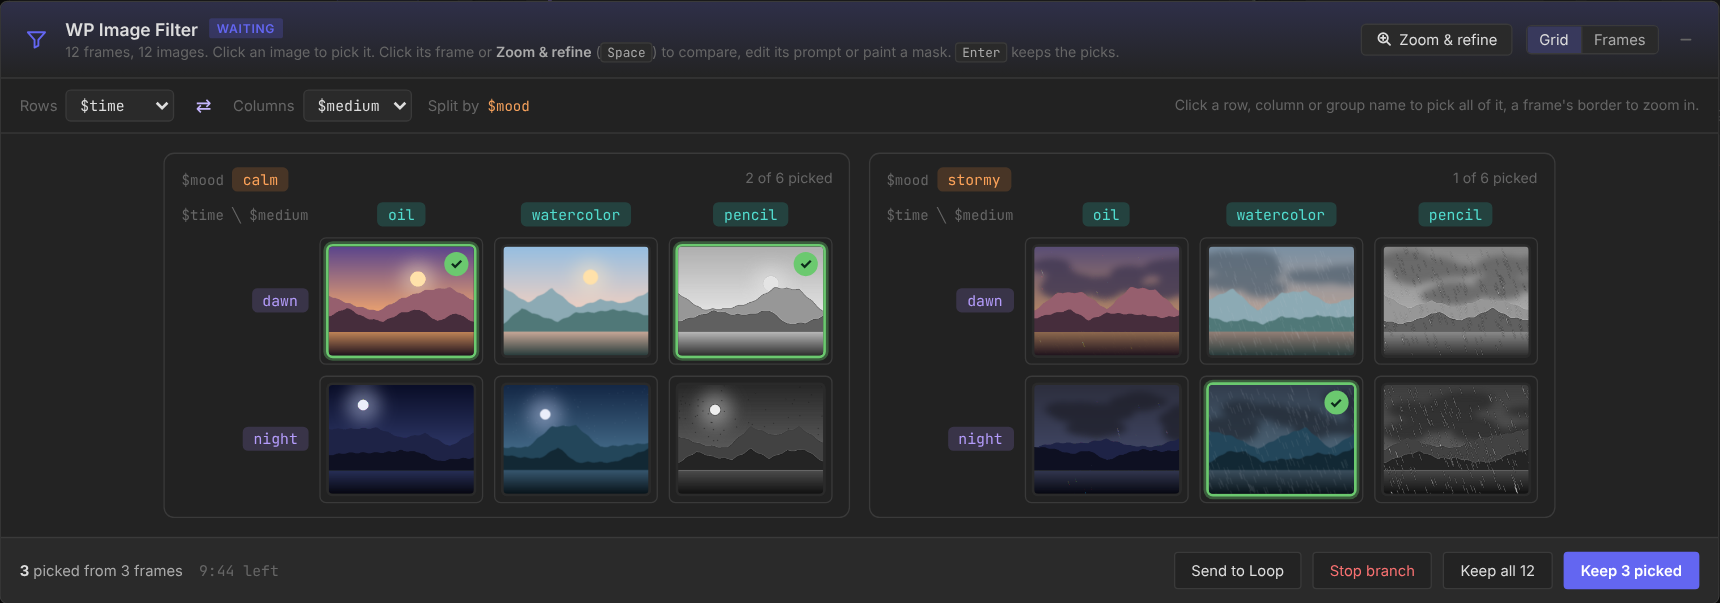
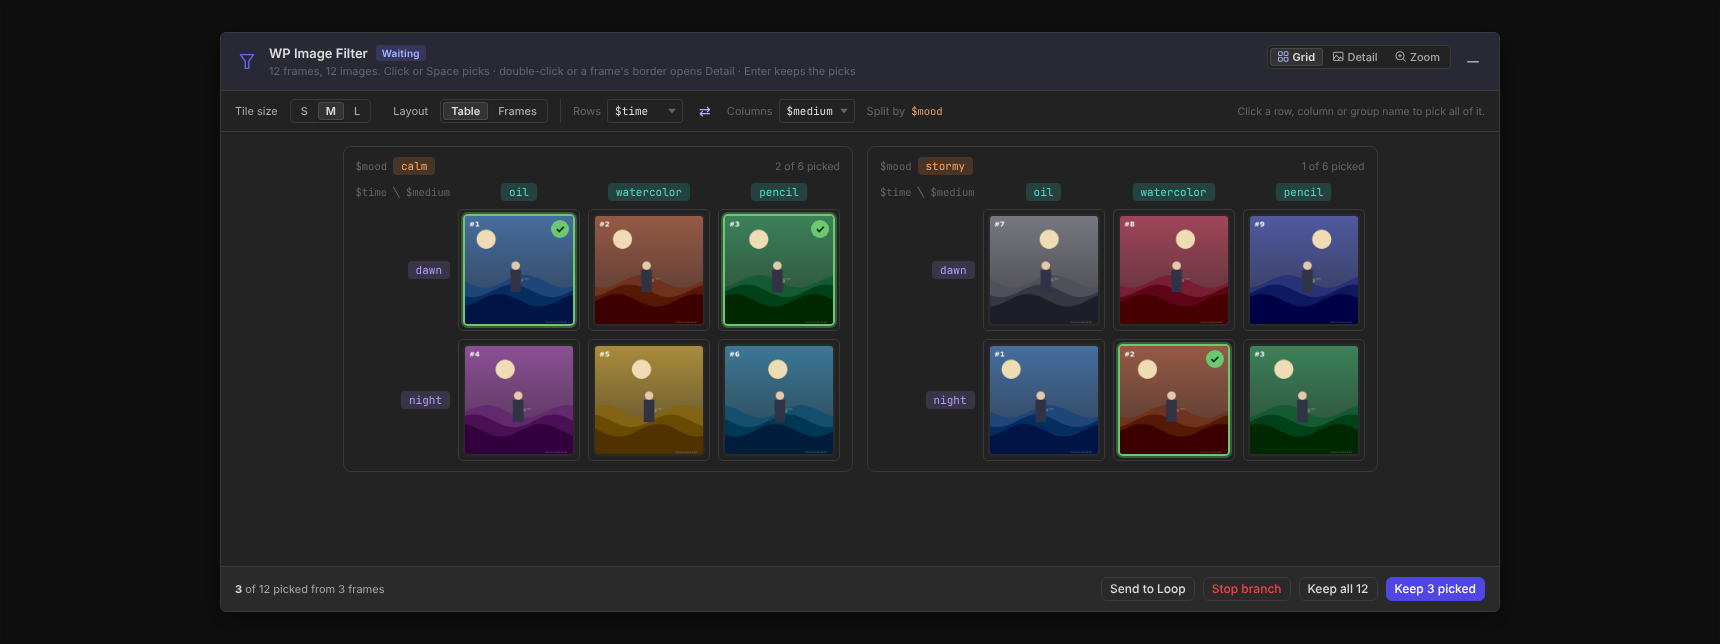
docs(image-filter): the three picker modes in the docs, help and release notes

diff --git a/src/manager/docs/pages/nodes/wp-image-filter.vue b/src/manager/docs/pages/nodes/wp-image-filter.vue
@@ -21,16 +21,15 @@ const ports = [
   { term: "picks (out)", desc: "What was kept, as frame:image (1-based), for example 1:2, 3:1." },
 ];
 
+const modes = [
+  { term: "Grid (G)", desc: "Pick fast. Click an image or press Space over it; Ctrl+A picks everything and a frame's all button picks the frame. Tile size S, M, L or Fit (F, as big as the picker allows). Double-click an image or click its frame to open it in Detail." },
+  { term: "Detail (D)", desc: "One image next to its size, seed, values, prompt, negative and mask. Only what is wired shows. Pick / Picked (P) picks it, ←/→ step, the strip under it jumps to any image. C compares two images with a slider, M paints a mask." },
+  { term: "Zoom (Z)", desc: "Only the picture, at Fit, 100%, 200% or any level between (− / +, keys 0 1 2). Scroll zooms toward the mouse, drag moves, double-click goes to 100% at that spot. ←/→ keep the zoom and the spot on the next image." },
+];
+
 const keys = [
-  { term: "Click", desc: "Pick or unpick an image. A frame's all button picks the whole frame; Ctrl+A picks everything." },
-  { term: "Frame", desc: "Click the frame around an image (its border or label) to zoom in, where you can compare, edit the prompt and paint a mask. The Zoom & refine button in the header does the same." },
-  { term: "Space", desc: "Zoom the image under the mouse, or leave the zoom (same as Zoom & refine). In the zoom, ←/→ move and ↑ picks. The picker remembers: leave it zoomed and the next one opens zoomed." },
-  { term: "F", desc: "Fit: make the images as big as the picker allows, so a few images fill the screen. Same as the Fit button; remembered for next time." },
-  { term: "I", desc: "In the zoom: Details. Lists the frame's variable values (Copy copies them) and seed, shows the frame's other images with Pick whole frame, and marks each value in the positive prompt (click it to edit). Remembered for next time." },
-  { term: "C", desc: "In the zoom: pin this image, then step to another to compare the two with a slider. C again stops." },
-  { term: "M", desc: "In the zoom: paint a mask on this image (brush, eraser, size, invert, clear)." },
   { term: "Enter", desc: "Keep the picks and let the run go on." },
-  { term: "Escape", desc: "Tuck the picker away. A waiting pill at the bottom of the screen opens it again, picks intact." },
+  { term: "Escape", desc: "Step back a mode: Zoom to Detail, Detail to Grid. From Grid it tucks the picker away; a waiting pill at the bottom of the screen opens it again, picks intact." },
 ];
 
 const settings = [
@@ -91,10 +90,21 @@ const settings = [
     </DocSection>
 
     <DocSection title="The picker">
+      <p>
+        The picker has three modes, switched at the top or with <b>G</b>, <b>D</b> and <b>Z</b>.
+        The window keeps its size in every mode, the pick count and the Keep buttons stay in the
+        footer, and the picker opens in the mode you left it in.
+      </p>
       <DocImage
         src="images/docs/wp-image-filter-picker.png"
-        ratio="1720 / 1088"
-        caption="The picker for a 12-frame sweep with Fit on: each frame is labelled with its number and the options it pinned. Three images are picked."
+        ratio="1720 / 860"
+        caption="Grid: six loop frames of two images each, at tile size M. Three images are picked."
+      />
+      <DocKeyList :items="modes" />
+      <DocImage
+        src="images/docs/wp-image-filter-zoom.png"
+        ratio="1720 / 860"
+        caption="Zoom on the hand in frame #5 at 164%. Step with the arrow keys and the next image opens on the same spot."
       />
       <DocKeyList :items="keys" />
       <p>
@@ -113,15 +123,15 @@ const settings = [
       <p>
         With a <b>Context Loop</b>, each frame is labelled with its number and the options its
         sweep pinned (for example <code>#3 · red · pencil</code>). Hover a label to see the
-        frame's seed and prompt. A sweep of two or more wildcards opens as a <b>grid</b>. The bar above it picks
+        frame's seed and prompt. A sweep of two or more wildcards opens in Grid as a <b>table</b>. The bar above it picks
         which wildcard goes on <b>Rows</b> and which on <b>Columns</b> (⇄ swaps them); any others
         <b>Split by</b>, one small grid per value. Click a row, column or group name to pick all of
-        it. <b>Frames</b> in the header switches back to the list.
+        it. <b>Layout › Frames</b> switches back to the list.
       </p>
       <DocImage
         src="images/docs/wp-image-filter-grid.png"
-        ratio="1720 / 676"
-        caption="A sweep of $time × $medium × $mood as a grid: rows and columns, split by $mood."
+        ratio="1720 / 644"
+        caption="A sweep of $time × $medium × $mood as a table: rows and columns, split by $mood."
       />
       <p>
         <b>Send to Loop</b> writes your picks back to the loop: the picked frames' seeds are
@@ -132,7 +142,7 @@ const settings = [
 
     <DocSection title="Refine before it goes on">
       <p>
-        In the zoom, the <b>Refine</b> panel edits the frame's positive and negative prompt and
+        In <b>Detail</b>, the side panel edits the frame's positive and negative prompt and
         paints a mask for the upscaler. Edits travel with the picks; tiles show ✎ for an edited
         prompt and ◐ for a painted mask.
       </p>
@@ -147,8 +157,8 @@ const settings = [
       </ul>
       <DocImage
         src="images/docs/wp-image-filter-refine.png"
-        ratio="1720 / 910"
-        caption="Zoom & refine on frame 5 with Details open: the frame's values, its prompt with each value marked, the negative, and Paint for a mask."
+        ratio="1720 / 860"
+        caption="Detail on frame 3: its size, seed and values, the prompt with each value marked, the negative, and Paint for a mask. The strip below jumps to any image."
       />
       <figure class="wp-doc-figure">
         <img :src="picksDiagram" alt="How the picks carry over: images, latents, masks, conditioning and prompt text of picked frames go on; an edited prompt is re-encoded and a painted mask goes to the masks output." loading="lazy">

diff --git a/src/manager/docs/figures.ts b/src/manager/docs/figures.ts
@@ -56,11 +56,13 @@ export const FIGURE_TEXT: Record<string, string> = {
   "images/docs/wp-debug-two.png":
     "Screenshot of two Context → Debug pairs stacked. The top WP Context holds Starter subject and Pose; its Debug lists $subject dog (canine) and $pose standing. The bottom WP Context holds Hair and Weather; its Debug shows a red '1 negative' badge and lists $hair black hair (cool) and $weather light rain with the negative '- umbrella' under it (tag wet). It shows that Debug lists each variable's value, tags and source, and the negative words a pick carries.",
   "images/docs/wp-image-filter-picker.png":
-    "Screenshot of the WP Image Filter picker, marked Waiting, in Frames view with Fit on: 12 frames, 12 images of a painted mountain lake, each labelled with its number and sweep options, from #1 dawn · oil · calm to #12 night · pencil · stormy. Frames #1, #5 and #10 are picked (green border and tick). The footer reads 3 picked from 3 frames with a countdown, and the buttons Send to Loop, Stop branch, Keep all 12 and Keep 3 picked.",
+    "Screenshot of the WP Image Filter picker, marked Waiting, in Grid mode (the Grid / Detail / Zoom switch is top right) with Tile size M: 6 frames of 2 images each, every frame a card labelled #1 to #6 with an all button. Three images are picked (green border and tick). The footer reads 3 of 12 picked from 3 frames, with Stop branch, Keep all 12 and Keep 3 picked.",
   "images/docs/wp-image-filter-grid.png":
-    "Screenshot of the WP Image Filter picker in Grid view for a sweep of $time, $medium and $mood. The bar reads Rows $time, Columns $medium, Split by $mood. Two grids sit side by side, $mood calm (2 of 6 picked) and $mood stormy (1 of 6 picked), each with rows dawn and night and columns oil, watercolor and pencil; the picked cells have a green border and tick.",
+    "Screenshot of the WP Image Filter picker in Grid mode for a sweep of $time, $medium and $mood, laid out as a table. The bar reads Tile size S M L, Layout Table / Frames, Rows $time, Columns $medium, Split by $mood. Two tables sit side by side, $mood calm (2 of 6 picked) and $mood stormy (1 of 6 picked), each with rows dawn and night and columns oil, watercolor and pencil; the picked cells have a green border and tick.",
   "images/docs/wp-image-filter-refine.png":
-    "Screenshot of Zoom & refine on frame #5 (dawn · pencil · calm, image 1, 5 / 12, Picked) with Details open. The right panel lists Values: $time dawn, $medium pencil, $mood calm, $iteration 5, $iteration_total 12, with Copy. Under Refine before it goes on, the Positive box reads 'mountain lake at dawn, pencil painting, calm sky' with each value marked, the Negative box reads 'blurry, lowres', and a note says No CLIP wired: an edit changes the text outputs only. Mask has a Paint button.",
+    "Screenshot of the WP Image Filter picker in Detail mode on frame #3, image 1. The picture sits between ‹ and › buttons, with a strip of all 12 images under it. The side panel reads Frame #3 · image 1, 1024 × 1024, seed 41814, 5 / 12, with a Pick button, Compare and Zoom; Values lists $hair silver hair, $place desert and the seed, with Pick whole frame (2); the Prompt box marks silver hair and desert in the prompt; the Negative box reads blurry, extra fingers; Mask has a Paint button.",
+  "images/docs/wp-image-filter-zoom.png":
+    "Screenshot of the WP Image Filter picker in Zoom mode. The picture fills the window, zoomed to 164% on a figure's hand labelled 5 fingers. A bar on top holds ‹, −, Fit, 100%, 200%, +, the level 164%, a Pick button and ›. A tag at the bottom left reads Frame #5 · image 1 · 9 / 12, and a hint reads Drag to move · scroll to zoom · Esc back.",
   "images/docs/wp-image-filter.png":
     "Screenshot of a WP Image Filter node after a run, wired into a Preview Image. The node lists its inputs and matching outputs (images, latent, masks, positive, negative, positive_text, negative_text, context, extra_1, extra_2, clip in and picks out). Under When it runs: Mode Pause & pick (Reuse last picks, Pass all), Send picks as Same shape, Timeout 600 s then keep all. The Last run strip reads 3 of 12 kept · frames 1, 5, 10 with three thumbnails, and the Preview Image shows the same three landscapes.",
   "wp-image-filter-flow":

diff --git a/docs/help/WP_ImageFilter.md b/docs/help/WP_ImageFilter.md
@@ -19,24 +19,24 @@ A Context Loop (or any list) makes one **frame** per iteration. Lists line up by
 
 ## The picker
 
-- Click an image to pick it. Ctrl+A picks everything; a frame with several images has an **all** button that picks the frame.
-- Click the frame around an image (its border or its label) to zoom in, where you can compare, edit the prompt and paint a mask. **Zoom & refine** in the header, or **Space**, opens and leaves the zoom too (Space zooms the image under the mouse). In the zoom, ←/→ move and ↑ picks. The picker remembers: leave it zoomed and the next one opens zoomed.
-- **I** or **Details** (in the zoom) adds a Details panel for power users: the frame's variable values (swept ones first, in their grid colour; **Copy** copies them), its seed, the other images of the frame with **Pick whole frame**, and the positive prompt with each value marked where it landed (click it to edit). Everything else in the zoom still works, and the picker remembers whether Details was on.
-- **C** (in the zoom) pins the image; step to another and a slider compares the two. **C** again stops.
-- **Fit** (or **F**) in the header makes the images as big as the picker allows, so a handful of images fill the screen. The picker remembers it.
+The picker has three modes, switched at the top or with **G**, **D** and **Z**. The window keeps its size in every mode, and the pick count and the Keep buttons are always in the footer. The picker opens in the mode you left it in.
+
+- **Grid** (G) is for picking fast. Click an image to pick it, or press **Space** over it. Ctrl+A picks everything; a frame with several images has an **all** button that picks the frame. **Tile size** sets S, M or L; **Fit** (or **F**) makes the images as big as the picker allows. Double-click an image, or click the frame around it, to open it in Detail.
+- **Detail** (D) shows one image next to its size and seed, its variable values (swept ones in their grid colour; the copy button copies them), the prompt with each value marked where it landed (click it to edit), the negative and the mask. Only what is wired shows: with no prompt text and no CLIP wired in, one line says how to get the prompt fields. **Pick** / **Picked** (or **P**, **Space**, ↑) picks it, ←/→ or ‹ › step, and the strip under the picture jumps to any image (double-click one to zoom it). **Pick whole frame** picks every image of a loop frame. **C** or **Compare** pins the image; step to another and a slider compares the two. **M** or **Paint** paints a mask.
+- **Zoom** (Z) shows only the picture, at real zoom levels: **Fit**, **100%**, **200%**, − and + (keys 0, 1, 2, − and +). Scroll to zoom toward the mouse, drag to move, double-click for 100% at that spot. ←/→ step to the next image and keep the zoom and the spot, so you can check the same hands or eyes in every frame. **P** picks.
+- **Escape** steps back: Zoom to Detail, Detail to Grid, and from Grid it tucks the picker away. A "waiting" pill stays at the bottom of the screen and reopens it with your picks still there. The − button in the header tucks it away from any mode.
 - **Enter** or **Keep N picked** sends the picks on. **Keep all** sends everything. **Stop branch** stops the nodes after this one; the rest of the run finishes normally.
 - A short chime plays when the picker opens, and the tab title starts with **● Pick images** while something waits. Turn the chime off under **Settings → Wildcard Pipeline → Runtime behavior → Image Filter sound**. Turn on **Image Filter desktop notification** there to also get a system notification while the tab is in the background.
-- **Escape** or the − button tucks the picker away. A "waiting" pill stays at the bottom of the screen and reopens it with your picks still there.
 
 ## Labels, sweep grid and Send to Loop
 
 - With a Context Loop, each frame is labelled with its number and the options its sweep pinned, for example `#3 · red · pencil`. Hover a label for the frame's seed and prompt.
-- A sweep of two or more wildcards opens as a **grid**. The bar above it picks which wildcard goes on **Rows** and which on **Columns** (⇄ swaps them); any others **Split by**, one small grid per value. Click a row, column or group name to pick all of it. **Frames** in the header switches back to the list.
+- A sweep of two or more wildcards opens in Grid as a **table**. The bar above it picks which wildcard goes on **Rows** and which on **Columns** (⇄ swaps them); any others **Split by**, one small grid per value. Click a row, column or group name to pick all of it. **Layout › Frames** switches back to the list.
 - **Send to Loop** writes your picks back to the loop: picked frames get their seeds locked (when the loop overrides seeds) and every other frame is bypassed, so the next run repeats only what you kept.
 
 ## Refine before it goes on
 
-In the zoom, the **Refine** panel edits the frame's prompts and paints a mask for the upscaler. Tiles show ✎ for an edited prompt and ◐ for a painted mask.
+In **Detail**, the side panel edits the frame's prompts and paints a mask for the upscaler. Tiles show ✎ for an edited prompt and ◐ for a painted mask.
 
 - An edited prompt replaces the text output. With a CLIP wired into **clip**, the conditioning is re-encoded to match; without one it stays as it was, and the panel says so.
 - With **Same shape** a frame's picks go on together, so a prompt edit covers the whole frame. With **One per image** it covers just that image.

diff --git a/docs/release-notes/next.md b/docs/release-notes/next.md
@@ -21,6 +21,7 @@ The assistant is new and **off by default**. Turn it on in **Settings › AI ass
 
 ### Editors and nodes
 
+- **Image Filter: Grid, Detail and Zoom.** The picker has three modes behind one switch at the top (**G**, **D**, **Z**), in a window that keeps its size, with the pick count and Keep buttons always in the footer. **Grid** picks fast: click or **Space** on the image under the mouse, and tile sizes **S / M / L / Fit**. **Detail** shows one image next to its size, seed, values, prompt, negative and mask, with a **Pick** / **Picked** button (**P**), ‹ › beside the picture and a strip of every image; the prompt fields show only when a prompt or CLIP is wired. **Zoom** finally zooms: **Fit / 100% / 200%** and − / +, scroll to zoom toward the mouse, drag to move, double-click for 100%, and ←/→ keep the zoom and the spot on the next image, so you can check the hands in every frame. The zoom is a new kit piece, `WpImageZoom`.
 - **Variables are coloured text** in combine, derivation, negative and template text, instead of chips.
 - **Negatives can change per use.** On the node and in bundles, a fixed value's or combine's negative can be changed for one use and reset to the library's.
 - **Constraint preview.** The constraint editor shows each target option's chance for every source option before you run anything.
